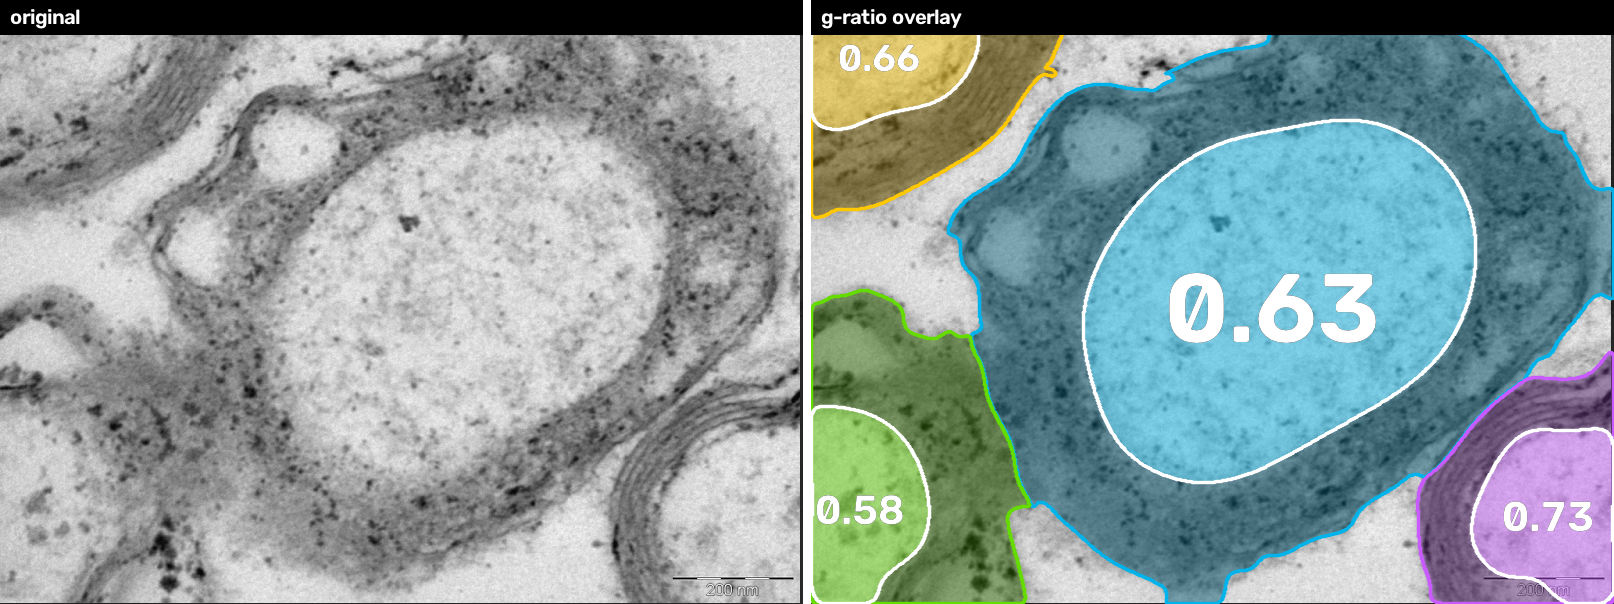
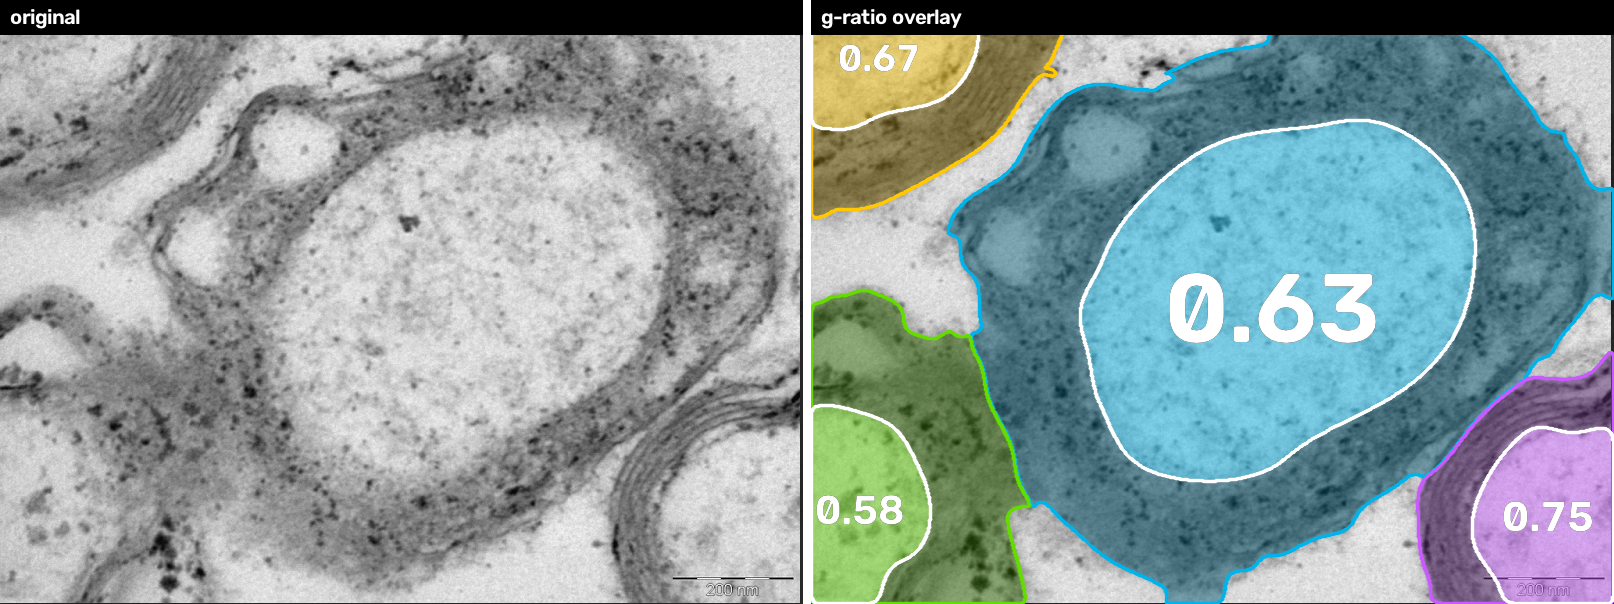
Re-sweep boundary params against updated sample_03 GT (R31)
Three Pareto-safe recalibrations found by a full boundary-parameter re-sweep
after the sample_03 ground-truth update. Each raises agreement on every sample
at once (no inter-sample trade), with recall/precision still 1.00/1.00 and all
38 tests passing. Targets the two largest error components a per-fibre
decomposition surfaced: sample_02's outer over-reach and the inner-border
rounding of non-circular axons.

- myelin_thickness_mult_isolated 1.8 -> 1.4: the isolated-fibre outer cap, at
  its measured elbow. Removes the maximal outer over-reach (sample_02 myelin FP
  39.7k -> 27.2k) with the under-reach still at/below baseline (FN 3.69k ->
  3.62k) -- pure over-reach removal, no clipping of genuine myelin. The R30
  capsweep that found "no clean optimum" predated dense_extend, which now
  re-recovers any genuinely thick sheath a tighter cap would clip.
- axon_smooth_frac 0.6 -> 0.8: more rounding of the peeled inner border removes
  its residual per-fibre wobble (sample_01 axon-side myelin FP 11.2k -> 9.8k);
  0.8 is the ceiling before a uniform kernel over-rounds sample_03's elongated
  axons.
- border_smooth_tol 2.0 -> 1.0: the inner-axon spline no longer rounds off
  genuinely non-circular axons (sample_03 axon IoU 0.934 -> 0.944) while still
  de-staircasing the border.

Mean IoU: axon 0.937 -> 0.943, myelin 0.847 -> 0.866, fibre 0.947 -> 0.955.

Deliberately left unchanged (dense_extend_thr, myelin_thickness_mult,
[…]

diff --git a/gratio/pipeline.py b/gratio/pipeline.py
@@ -87,10 +87,16 @@ DEFAULTS = dict(
                               # residual assumption is intra-fibre: the outer boundary is within a
                               # few ring-thicknesses of the axon (a wedge ballooning many-fold is a
                               # neighbour bleeding in, not this fibre's myelin).
-    myelin_thickness_mult_isolated=1.8,  # tighter cap for an ISOLATED axon (see isolation_ramp):
+    myelin_thickness_mult_isolated=1.4,  # tighter cap for an ISOLATED axon (see isolation_ramp):
                               # its myelin faces open extracellular space on all sides, where dark
                               # adjacent tissue looks like myelin and no neighbouring axon bounds it,
                               # so the band must not run past the axon's own uniform ring thickness.
+                              # 1.4 is the elbow measured against the one isolated example (sample_02):
+                              # it removes the maximal outer over-reach (FP 39.7k -> 27.2k) with the
+                              # under-reach still at/below baseline (FN 3.69k -> 3.62k) -- i.e. pure
+                              # over-reach removal, no clipping of genuine myelin. Below 1.4 the FN
+                              # climbs (real sheath starts being clipped); see R31. Still the
+                              # weakest-supported constant here (calibrated on a single isolated axon).
     isolation_ramp=(7.0, 13.0),  # neighbour-distance/own-thickness range over which the cap ramps
                               # from clustered (myelin_thickness_mult, at/below 7) to isolated
                               # (myelin_thickness_mult_isolated, at/above 13). A smooth ramp, not a
@@ -107,15 +113,26 @@ DEFAULTS = dict(
                               # axoplasm vs dark myelin, peel the dark band inward from the fibre edge,
                               # and keep the bright core. This bias nudges the split darker so the border
                               # sits at the axolemma. Calibrated against the hand masks.
-    axon_smooth_frac=0.6,     # smooth the peeled axon border by this fraction of the axon radius, so it
-                              # is a simple rounded curve like a hand tracing (the peel itself is ragged)
+    axon_smooth_frac=0.8,     # smooth the peeled axon border by this fraction of the axon radius, so it
+                              # is a simple rounded curve like a hand tracing (the peel itself is ragged).
+                              # 0.8 removes the residual per-fibre inner-border wobble (sample_01 axon-side
+                              # myelin FP 11.2k -> 9.8k) and lifts mean axon IoU; 0.9+ over-rounds
+                              # sample_03's elongated tadpole axons (their narrow width is not captured by
+                              # the equivalent radius), so 0.8 is the ceiling for a uniform kernel. See R31.
     axon_smooth_max=99,       # ...capped to this absolute kernel size
     fiber_smooth_frac=0.2,    # smooth the fibre outer bound (open then close) by this fraction of the
                               # axon radius, so it is a clean rounded envelope like a hand tracing
                               # instead of a spiky outline that reaches into the extracellular space
-    border_smooth_tol=2.0,    # final pass: refit the INNER (axon) border as a smooth spline within this
+    border_smooth_tol=1.0,    # final pass: refit the INNER (axon) border as a smooth spline within this
                               # many px (least-squares periodic spline; removes the pixel staircase
                               # without shrinking). Larger tol -> fewer control points -> smoother.
+                              # Lowered 2.0 -> 1.0: at 2.0 the spline rounded off the genuinely
+                              # non-circular axons (esp. sample_03's oval/tadpole bodies), reading
+                              # their border in past GT; 1.0 gives enough control points to track the
+                              # real shape without re-introducing the raster staircase (sample_03 axon
+                              # IoU 0.934 -> 0.944, mean myelin +0.003). Below ~0.7 it plateaus. Stays
+                              # >= the outer tol (border_smooth_tol_fiber=0.5), consistent with the
+                              # compact axon needing fewer curves than the long fibre outline. See R31.
     border_smooth_tol_fiber=0.5,  # SEPARATE, tighter tol for the OUTER (fibre) border -> many more
                               # control points, so its longer/undulating outline is de-staircased
                               # without the shape-rounding that a shared (axon) tol caused on sample_03.

diff --git a/docs/reference/user_masks.md b/docs/reference/user_masks.md
@@ -125,10 +125,12 @@ no false positives**, then maximise class overlap.
 
 | sample     | axon IoU | myelin IoU | fibre IoU | detect P / R |
 |------------|---------:|-----------:|----------:|:------------:|
-| sample_01  | 0.91 | 0.87 | 0.96 | 1.00 / 1.00 |
-| sample_02  | 0.96 | 0.84 | 0.93 | 1.00 / 1.00 |
-| sample_03  | 0.92 | 0.82 | 0.95 | 1.00 / 1.00 |
-| **mean**   | **0.93** | **0.85** | **0.95** | **1.00 / 1.00** |
+| sample_01  | 0.92 | 0.88 | 0.96 | 1.00 / 1.00 |
+| sample_02  | 0.96 | 0.88 | 0.96 | 1.00 / 1.00 |
+| sample_03  | 0.94 | 0.83 | 0.95 | 1.00 / 1.00 |
+| **mean**   | **0.94** | **0.87** | **0.96** | **1.00 / 1.00** |
+
+(values after R31; before it, mean was axon 0.93 / myelin 0.85 / fibre 0.95.)
 
 (baseline before tuning was axon 0.74 / myelin 0.51 / fibre 0.80, recall 0.80.)
 
@@ -353,15 +355,58 @@ read the g-ratio high; sample_02 g fell 0.81 → 0.73, close to the hand-traced
     (to learn a shape prior) or the hand-drawn inter-cell line. Documented under
     A-MYELIN-DENSE's failure mode.
 
+13. *Three Pareto-safe recalibrations after the sample_03 GT update* (R31). With
+    the refreshed sample_03 ground truth in place, a full re-sweep of the boundary
+    parameters found three changes that raise agreement on **every** sample at once
+    (no inter-sample trade, recall/precision still 1.00/1.00), attacking the two
+    largest error components a per-fibre decomposition surfaced — sample_02's outer
+    over-reach and the inner-border rounding:
+    - `myelin_thickness_mult_isolated` **1.8 → 1.4**. This is the isolated-fibre
+      outer cap and, on this 3-image set, only sample_02 is isolated, so it is
+      effectively the sample_02 outer-boundary knob. 1.4 is the *measured elbow*:
+      it removes the maximal outer over-reach (sample_02 myelin FP 39.7k → 27.2k)
+      while the under-reach stays **at/below baseline** (FN 3.69k → 3.62k) — i.e.
+      pure over-reach removal, no clipping of genuine myelin (below 1.4 the FN
+      climbs as real sheath starts being cut). sample_02 myelin 0.842 → 0.883,
+      fibre 0.93 → 0.96. The earlier capsweep (R30) that found "no clean optimum"
+      predated `dense_extend`, which now re-recovers any genuinely thick sheath the
+      tighter cap clips, so the trade is gone. Still the weakest-supported constant
+      (one isolated axon) — see A-ISOLATED-TIGHTER.
+    - `axon_smooth_frac` **0.6 → 0.8**. More morphological rounding of the peeled
+      inner border removes its residual per-fibre wobble (sample_01 axon-side myelin
+      FP 11.2k → 9.8k). 0.9+ over-rounds sample_03's elongated tadpole axons (their
+      narrow width is not captured by the equivalent radius used to size the
+      kernel), so 0.8 is the ceiling for a *uniform* kernel; a width-aware kernel is
+      the way past it but was not needed for a gain here.
+    - `border_smooth_tol` **2.0 → 1.0** (the INNER/axon spline refit). At 2.0 the
+      final spline rounded off the genuinely non-circular axons — most visibly
+      sample_03's oval/tadpole bodies — reading their border in past GT. 1.0 gives
+      enough control points to track the real shape without re-introducing the
+      raster staircase (sample_03 axon IoU 0.934 → 0.944). It plateaus below ~0.7
+      and stays ≥ the outer tol (`border_smooth_tol_fiber`=0.5), consistent with the
+      compact axon needing fewer curves than the long, undulating fibre outline.
+
+    Net over the three: mean **axon 0.937 → 0.943, myelin 0.847 → 0.866, fibre
+    0.947 → 0.955**; every per-sample class IoU is same-or-higher. What was *not*
+    changed, deliberately: `dense_extend_thr`, `myelin_thickness_mult`, and
+    `junction_fill_kfrac` each showed a ≤0.002 mean gain that came from an
+    inter-sample trade (helping one sample by hurting another) — left at their
+    tuned values to avoid the single-sample overfitting the owner directives forbid.
+    The residual outer-boundary walls (sample_02 shared wall, sample_03 open-side
+    cluster-edge over-reach) are unchanged: they are dense-dark (82–94% of the
+    over-reach), so no local density/ridge signal separates them — the documented
+    learned-outer-boundary route still stands.
+
 The relevant `segment` defaults are now `myelin_percentile=28`,
 `myelin_fill_percentile=42`, `myelin_thickness_mult=3.0`,
-`myelin_thickness_mult_isolated=1.8`, `isolation_ramp=(7,13)`,
-`fiber_vacuole_close_frac=1.0`, `dense_extend=True`, `junction_fill=True`
-(`junction_fill_kfrac=3.0`), `detect_bubbles=False`, `fill_edge_holes=True`,
-`min_axon_frac=0.02`; territory is thickness-weighted and every outer-myelin rule
-scales with each axon's own measured thickness (no pixel constant, no
-axon-radius/g-ratio prior). The only cap value calibrated on a single isolated
-example (`myelin_thickness_mult_isolated`) is documented as such.
+`myelin_thickness_mult_isolated=1.4`, `isolation_ramp=(7,13)`,
+`axon_smooth_frac=0.8`, `border_smooth_tol=1.0`, `fiber_vacuole_close_frac=1.0`,
+`dense_extend=True`, `junction_fill=True` (`junction_fill_kfrac=3.0`),
+`detect_bubbles=False`, `fill_edge_holes=True`, `min_axon_frac=0.02`; territory is
+thickness-weighted and every outer-myelin rule scales with each axon's own measured
+thickness (no pixel constant, no axon-radius/g-ratio prior). The only cap value
+calibrated on a single isolated example (`myelin_thickness_mult_isolated`) is
+documented as such.
 
 **Residual, needing a per-side (not global) outer boundary:**
 - On an *open* extracellular-facing arc a fibre can over-reach (sample_03 #2,

diff --git a/docs/reference/assumptions.md b/docs/reference/assumptions.md
@@ -14,7 +14,7 @@ site that relies on it.
 | **A-MYELIN-DARK** | Myelin is *darker* than the axoplasm and than most extracellular space (osmium-stained TEM). | `myelin_percentile`, `myelin_fill_percentile` threshold the darkest pixels as myelin. | Inverted-contrast modalities (some SEM) mark axoplasm as "myelin". Needs a polarity flip (`255 - image`), as in `reference_run.py`. |
 | **A-MYELIN-LAMELLAR** | The myelin sheath is a stack of *concentric membranes* (lamellae) that render as ridges, and genuine extracellular space is reachable from outside the fibre **without crossing a lamella**. | `membrane_outer_boundary` (opt-in) refines the outer edge by flooding inward from the background, blocked by ridge (meijering+sato) and dark-myelin barriers. | Immature / compact-only / thin myelin with no resolvable lamellae, or magnification too low to resolve them, leaves no ridge barrier → the flood leaks into real myelin and trims it. **This is why the feature is OFF by default** (on the current 3 images it trims real compact myelin through lamella gaps; net ≈ −0.003 IoU). |
 | **A-MYELIN-DENSE** | Myelin is *solidly* dark (high local dark-pixel density); extracellular neuropil is only *sparsely* dark (scattered membranes in bright ground). So the sheath can be followed outward through the solid-dark region and it **ends where the density drops to neuropil**. | `dense_extend` (ON) follows the solid dark outward per direction past the thickness cap; extends where the dense run ends in neuropil, keeps the cap where it runs to a touching neighbour (no gap). Fixes locally-thick sheaths the median cap clips. | Fails where neuropil is as densely dark as myelin (very heavy osmium, or magnification so low the neuropil membranes merge) → the follow would run out into the tissue. Also cannot separate two touching sheaths with no bright/sparse gap between them (that boundary is left at the cap — see sample_02 top). |
-| **A-ISOLATED-TIGHTER** | An *isolated* fibre's myelin is not much thicker than its own measured ring; dark tissue extending far past that ring is a neighbouring cell, not this fibre's myelin. | `myelin_thickness_mult_isolated` (=1.8) caps an isolated axon's band tighter than a clustered one (`isolation_ramp`). | A genuinely thick-myelin *isolated* fibre (e.g. large PNS fibre alone in frame) would be clipped. **Calibrated on exactly ONE isolated axon (sample_02)** — the single weakest-supported number in the pipeline. |
+| **A-ISOLATED-TIGHTER** | An *isolated* fibre's myelin is not much thicker than its own measured ring; dark tissue extending far past that ring is a neighbouring cell, not this fibre's myelin. | `myelin_thickness_mult_isolated` (=1.4) caps an isolated axon's band tighter than a clustered one (`isolation_ramp`). 1.4 is the measured elbow on sample_02: it removes the maximal outer over-reach with the under-reach still at baseline (R31). | A genuinely thick-myelin *isolated* fibre (e.g. large PNS fibre alone in frame) would be clipped, and 1.4 leaves less margin than the old 1.8. **Calibrated on exactly ONE isolated axon (sample_02)** — the single weakest-supported number in the pipeline. |
 | **A-SHEATHS-MEET-BY-THICKNESS** | Where two fibres touch, their sheaths meet in proportion to each fibre's *own* myelin thickness (not at the geometric midline). | Thickness-weighted territory: pixel → axon minimising `distance / own_thickness`. | Two touching fibres with very unequal *staining* (not thickness) could be mis-split; assumes thickness, not intensity, sets the meeting line. |
 | **A-AXON-CONVEX-BRIGHT** | An axon body is a bright, roughly convex compartment above a size floor. | `min_axon_frac`, `min_solidity`, `bright_margin` in axon detection. | Very small, dark, or highly non-convex axons (severe pathology) may be missed or split. |
 | **A-JUNCTION-MYELIN** | Where several fibres pack together, the dark material filling the interstitial pocket *between two adjacent sheaths* is myelin (their touching compact-myelin walls), not another dark structure. | `junction_fill` (ON) closes the inter-fibre gaps (scale-free kernel = `junction_fill_kfrac` × median fibre thickness) and adds back dense-dark pixels flanked by a *second* fibre. Reclaims junction myelin left beyond every axon's cap. | A dark non-myelin process (glial cytoplasm, debris) running through a junction would be absorbed as myelin. Strictly a no-op for isolated fibres (needs two fibres), so it cannot touch sample_02. |

diff --git a/docs/reference/continuation.md b/docs/reference/continuation.md
@@ -9,10 +9,13 @@ Current agreement (`evaluate_segmentation.py`, means over the 3 TEM samples):
 
 | metric | value |
 |--------|-------|
-| axon IoU   | 0.93 |
-| myelin IoU | 0.85 |
-| fibre IoU  | 0.95 |
+| axon IoU   | 0.94 |
+| myelin IoU | 0.87 |
+| fibre IoU  | 0.96 |
 | detection precision / recall | **1.00 / 1.00** |
+
+(after R31 — the boundary re-sweep against the updated sample_03 GT; before it,
+axon 0.93 / myelin 0.85 / fibre 0.95.)
 
 (Baseline before any tuning was axon 0.74 / myelin 0.51 / fibre 0.80, recall 0.80.)
 Per-sample numbers and the full narrative are in `user_masks.md`; the durable
@@ -53,12 +56,12 @@ Per-sample error maps + the sample_02 "why geometry can't win" evidence:
 |-------|-------|-----------------------|
 | `myelin_percentile` / `myelin_fill_percentile` | 28 / 42 | decouple axon-separation threshold from the myelin-band threshold; the fill % is raised to capture lighter lamellae (~20-33% of GT myelin is brighter than the separation %) without spawning false axons — R10/R11/**R21** |
 | `min_axon_frac` | 0.02 | size floor that culls false-positive background pockets while keeping every real axon — R11 |
-| `myelin_thickness_mult` (+`_isolated`) | 3.0 / 1.8 | outer myelin cap = this × the axon's **own measured ring thickness**; scale-free (no pixel constant), independent of axon radius (no g-ratio circularity). Isolated axons ramp to the tighter 1.8 (`isolation_ramp`) — R20/R21/**R22/R24** |
+| `myelin_thickness_mult` (+`_isolated`) | 3.0 / 1.4 | outer myelin cap = this × the axon's **own measured ring thickness**; scale-free (no pixel constant), independent of axon radius (no g-ratio circularity). Isolated axons ramp to the tighter 1.4 (`isolation_ramp`); 1.4 is the measured elbow — max over-reach removed with under-reach still at baseline — R20/R21/R22/R24/**R31** |
 | `fiber_vacuole_close_frac` | 1.0 | wrap the fibre outer boundary over edge vacuoles by closing it with a kernel = this × the axon's own band thickness; one scale-free rule for every fibre (replaced the single-sample R19 enclosure heuristic) — **R24** |
 | `axon_otsu_bias` | 10 | per-fibre Otsu peel places the axolemma at the true inner-myelin edge — R13 |
-| `axon_smooth_frac` | 0.6 | smooth the axon border into a simple curve — R13 |
+| `axon_smooth_frac` | 0.8 | smooth the axon border into a simple curve; 0.8 removes residual inner-border wobble, 0.9+ over-rounds sample_03's elongated axons — R13/**R31** |
 | `fiber_smooth_frac` | 0.2 | smooth the fibre outer envelope, remove spikes — R15 |
-| `border_smooth_tol` / `border_smooth_tol_fiber` / `border_min_radius` | 2.0 / 0.5 / 6.0 | final spline curve refit (no shrink; protects tiny axons). The OUTER (fibre) border uses a **tighter** tol → many more control points, since the myelin outline is longer/undulating and one shared tol rounded off sample_03's elongated fibres — R14/**R29** |
+| `border_smooth_tol` / `border_smooth_tol_fiber` / `border_min_radius` | 1.0 / 0.5 / 6.0 | final spline curve refit (no shrink; protects tiny axons). The INNER (axon) tol dropped 2.0 → 1.0 so the spline tracks non-circular axons instead of rounding them off (sample_03 axon 0.934 → 0.944); the OUTER (fibre) border keeps an even tighter tol → many more control points, since the myelin outline is longer/undulating — R14/R29/**R31** |
 | `remove_scalebar` | True | detect + inpaint the "200 nm" ruler, but only in clean background — R22/R12 |
 
 Note: the remaining px values (`speckle_min`, `close_fiber`, `myelin_close`,

diff --git a/CLAUDE.md b/CLAUDE.md
@@ -61,9 +61,9 @@ python -m pytest -q                                # synthetic + GT + evaluation
 | `sample_02.png` | 871×844 | single healthy axon, thick concentric myelin (the clean parity case). |
 | `sample_03.png` | 482×505 | 5-axon touching cluster, thin myelin. |
 
-Current pipeline g-ratios: s01 ≈ 0.66/0.63/0.58/0.73, s02 ≈ 0.68, s03 ≈
-0.68/0.82/0.72/0.65/0.84. Segmentation vs GT means ≈ axon 0.93 / myelin 0.85 /
-fibre 0.95, detection 1.00/1.00.
+Current pipeline g-ratios (axon-id order): s01 ≈ 0.67/0.63/0.58/0.75, s02 ≈ 0.69,
+s03 ≈ 0.82/0.68/0.72/0.85/0.65. Segmentation vs GT means ≈ axon 0.94 / myelin 0.87 /
+fibre 0.96, detection 1.00/1.00 (means after R31; see user_masks.md).
 
 ## Ground truth — how it works (READ before touching it)
 

diff --git a/README.md b/README.md
@@ -98,8 +98,8 @@ sample images' scale bars are not used.
 
 Working prototype, validated against **hand-drawn ground-truth masks** of the
 three sample micrographs. The segmentation runs on the raw grayscale images and
-is scored by mask overlap (IoU) — current means: **axon 0.93 / myelin 0.76 /
-fibre 0.90, detection recall & precision 1.00** (baseline before tuning was
+is scored by mask overlap (IoU) — current means: **axon 0.94 / myelin 0.87 /
+fibre 0.96, detection recall & precision 1.00** (baseline before tuning was
 0.74 / 0.51 / 0.80, recall 0.80). Run `python evaluate_segmentation.py`.
 
 New to the project? Read these first:
